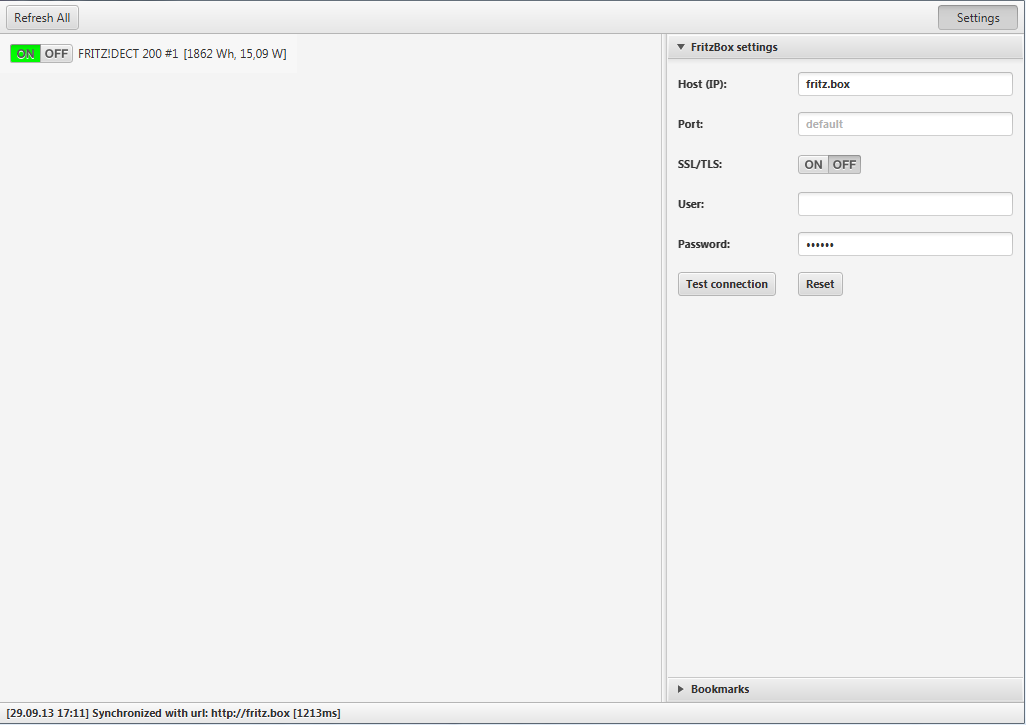
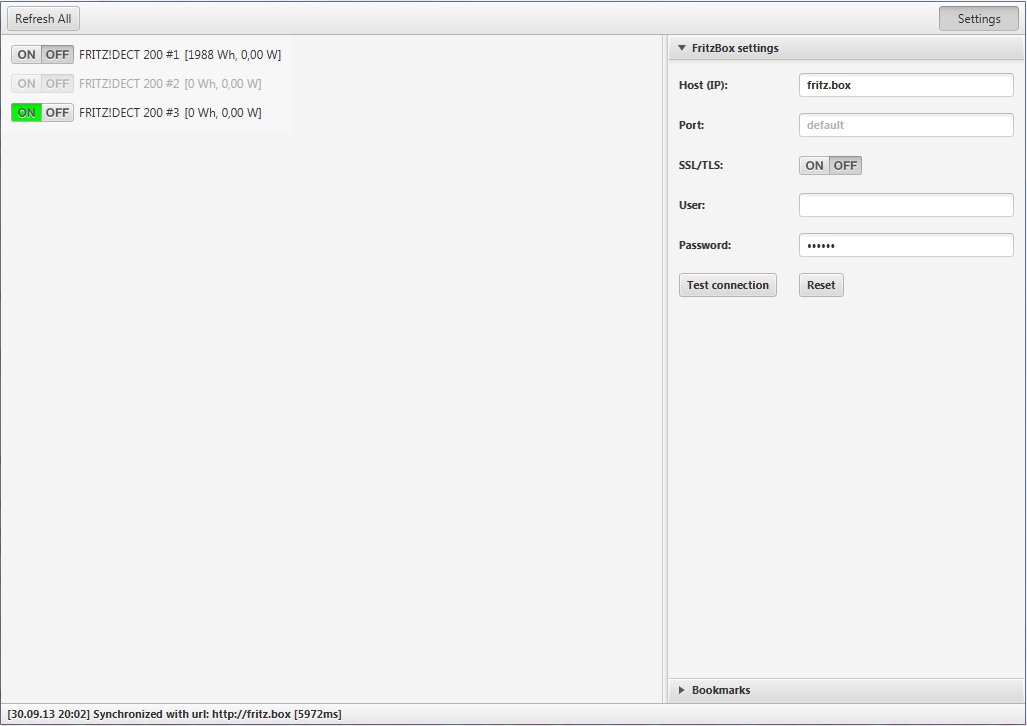
fix inval response small layout fixes

diff --git a/fritz-connect/src/main/resources/org/comtel/fritz/connect/main.css b/fritz-connect/src/main/resources/org/comtel/fritz/connect/main.css
@@ -38,6 +38,7 @@
 
 #switcherPane {
     -fx-padding: 10;
+    -fx-spacing: 10;
     -fx-background-color: #f7f7f7;
     -fx-default-button:  #00ff00;
 }

diff --git a/fritz-connect/src/main/java/org/comtel/fritz/connect/service/SwitchService.java b/fritz-connect/src/main/java/org/comtel/fritz/connect/service/SwitchService.java
@@ -294,12 +294,8 @@ public class SwitchService {
 			}
 		}
 
-		for (SwitchDevice dev : deviceList) {
-			dev.setPresent("1".equals(sendSwitchCmd(dev.getAin(), SwitchCmd.GETSWITCHPRESENT, sid)));
-			dev.setName(sendSwitchCmd(dev.getAin(), SwitchCmd.GETSWITCHNAME, sid));
-			dev.setState(sendSwitchCmd(dev.getAin(), SwitchCmd.GETSWITCHSTATE, sid));
-			dev.setPower(Integer.valueOf(sendSwitchCmd(dev.getAin(), SwitchCmd.GETSWITCHPOWER, sid)));
-			dev.setEnergy(Integer.valueOf(sendSwitchCmd(dev.getAin(), SwitchCmd.GETSWITCHENERGY, sid)));
+		for (final SwitchDevice dev : deviceList) {
+			refreshSwitchDevice(dev);
 			logger.info("updated: {}", dev);
 		}
 		return deviceList;
@@ -325,19 +321,23 @@ public class SwitchService {
 	}
 
 	public void refreshSwitchDevice(final SwitchDevice dev) throws Exception {
-		String sid = getSessionId();
+		String sid = getCachedSessionId();
 
 		dev.setPresent("1".equals(sendSwitchCmd(dev.getAin(), SwitchCmd.GETSWITCHPRESENT, sid)));
 		dev.setName(sendSwitchCmd(dev.getAin(), SwitchCmd.GETSWITCHNAME, sid));
 		dev.setState(sendSwitchCmd(dev.getAin(), SwitchCmd.GETSWITCHSTATE, sid));
 		try {
-			dev.setPower(Integer.valueOf(sendSwitchCmd(dev.getAin(), SwitchCmd.GETSWITCHPOWER, sid)));
+			String power = sendSwitchCmd(dev.getAin(), SwitchCmd.GETSWITCHPOWER, sid);
+			dev.setPower("inval".equals(power) ? 0 : Integer.valueOf(power));
 		} catch (Exception e) {
+			logger.error(e.getMessage(), e);
 			dev.setPower(-1);
 		}
 		try {
-			dev.setEnergy(Integer.valueOf(sendSwitchCmd(dev.getAin(), SwitchCmd.GETSWITCHENERGY, sid)));
+			String energy = sendSwitchCmd(dev.getAin(), SwitchCmd.GETSWITCHENERGY, sid);
+			dev.setEnergy("inval".equals(energy) ? 0 : Integer.valueOf(energy));
 		} catch (Exception e) {
+			logger.error(e.getMessage(), e);
 			dev.setEnergy(-1);
 		}
 
